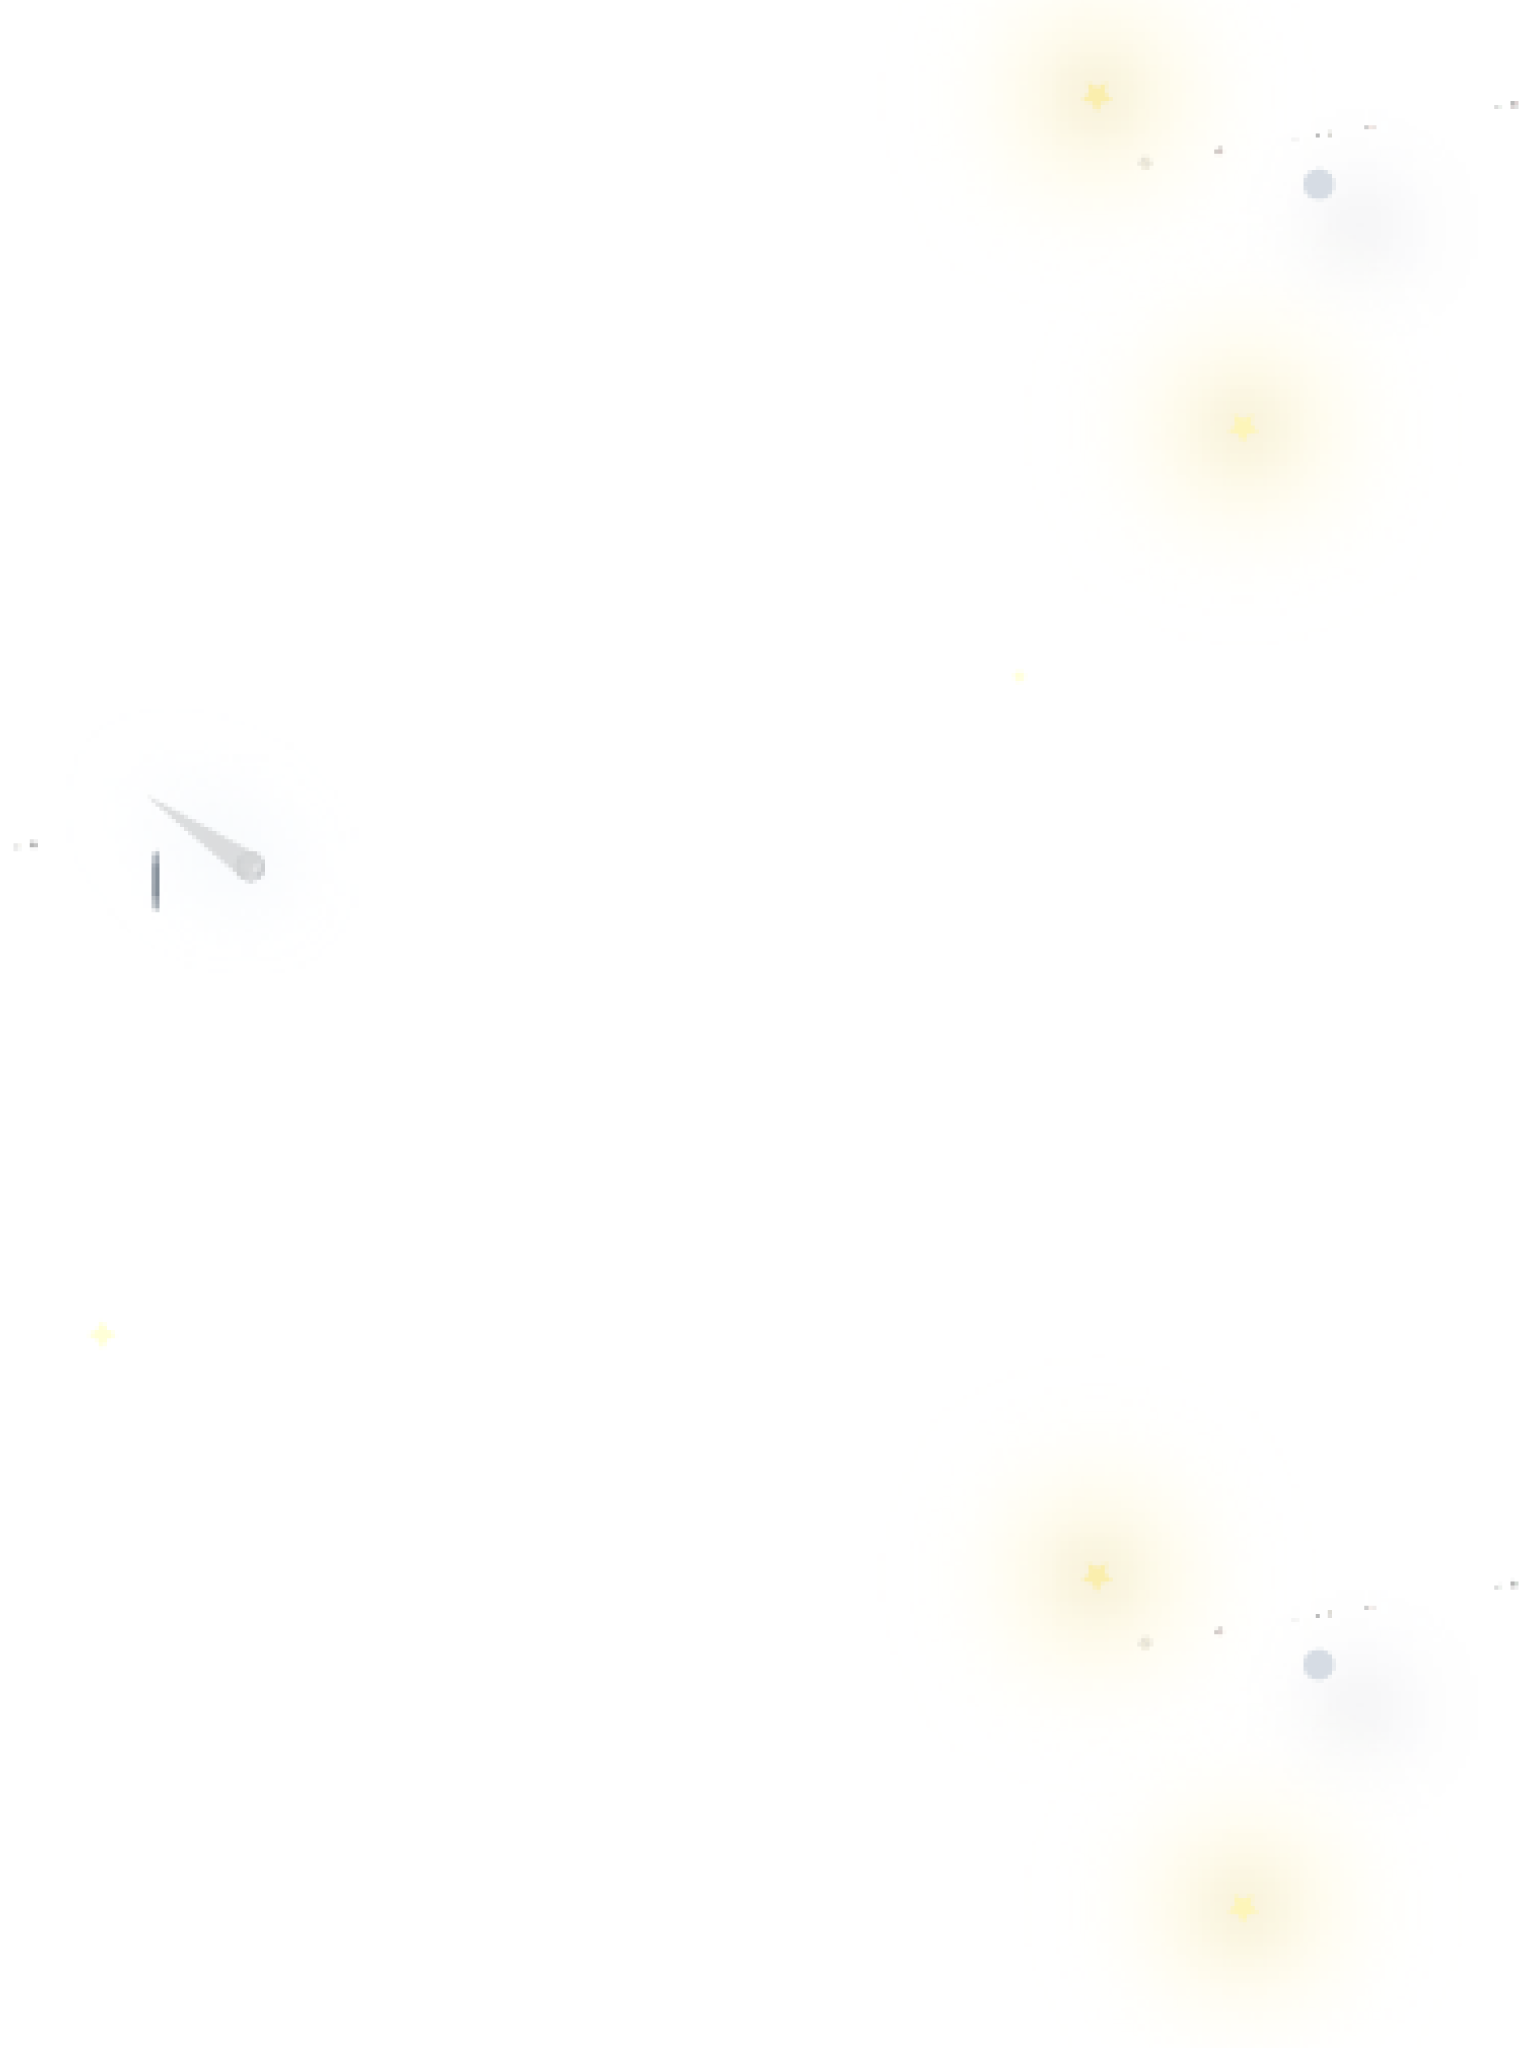
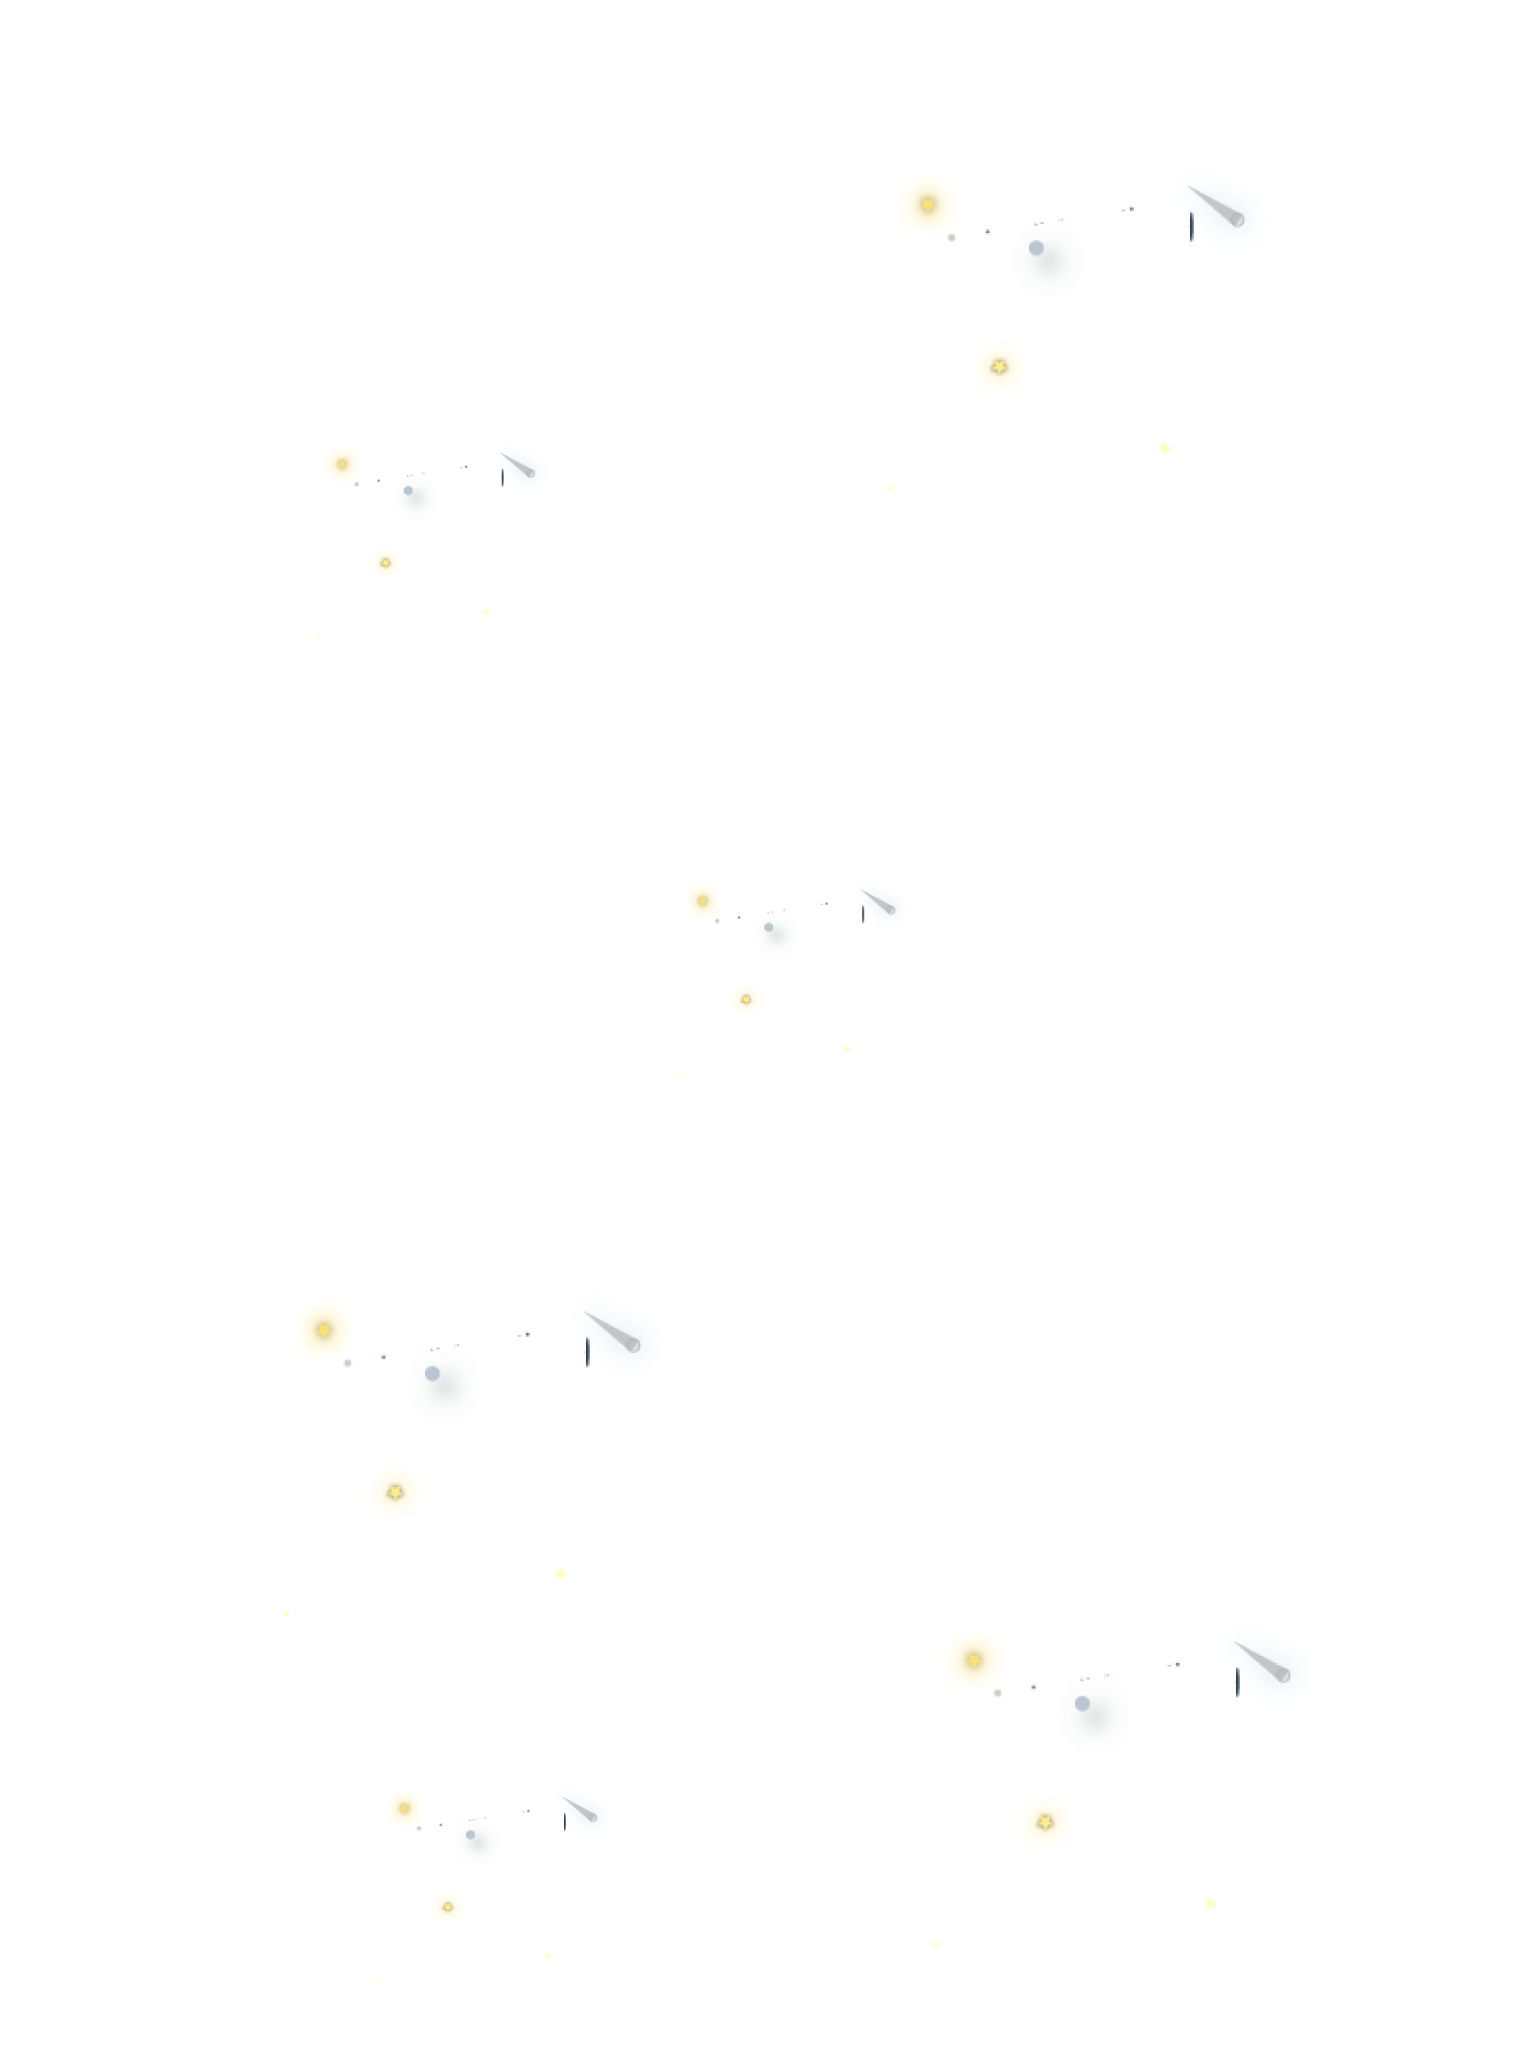
1. Improving delivery UI Animation

diff --git a/src/containers/miscellaneous/delivery/layout.ios.js b/src/containers/miscellaneous/delivery/layout.ios.js
@@ -1,8 +1,9 @@
 import React, { PropTypes, Component } from 'react';
-import { View , Text , StatusBar , StyleSheet , Dimensions , KeyboardAvoidingView } from 'react-native';
+import { Easing , Animated , View , Text , StatusBar , StyleSheet , Dimensions , KeyboardAvoidingView } from 'react-native';
 import { bindActionCreators } from 'redux';
 import { connect } from 'react-redux';
 import BackgroundImage from '../../../components/utilities/backgroundImage';
+import StarsImage from '../../../components/utilities/starsImage';
 import Telebot from '../../../components/telebuddies/telebot';
 import MessageBox from '../../../components/messageBox/container';
 import NavBar from '../../../components/navBar/container';
@@ -12,7 +13,7 @@ import { getUserInfo } from '../../auth/actions';
 import { getLogisticQuote , resetLogistic , confirmDelivery , confirmPlaySelect , showTracking } from '../actions';
 import QuoteSelect from './quote/listContainer';
 import Receipt from './receipt/layout';
-const { width } = Dimensions.get('window');
+const { width , height } = Dimensions.get('window');
 
 class Delivery extends Component {
 	constructor(props){
@@ -23,10 +24,18 @@ class Delivery extends Component {
 		// 3. quoteSelect
 		// 4. deliveryReceipt
 		this.state = { display : 'gamePlaySelect' };
+		this._position = new Animated.ValueXY({
+			x : 0, 
+			y : height*0.1
+		});
+		this._animation = new Animated.Value(0);
 	}
 	componentDidMount(){
 		const { getUserInfo } = this.props;
 		getUserInfo();
+		setTimeout(()=>{
+			this._slideUpAnimation();
+		},100);
 	}
 	shouldComponentUpdate(nextProps,nextState){
 		const { display , data } = this.state;
@@ -36,6 +45,32 @@ class Delivery extends Component {
 		// Clear Selected Play / Reset 
 		const { resetLogistic } = this.props;
 		resetLogistic();
+	}
+	_fadeAnimation(){
+		Animated.timing(this._animation, {
+			toValue: 1,
+			duration: 100,
+			easing : Easing.linear
+		}).start()
+	}
+	_slideUpAnimation(){
+		Animated.sequence([
+			Animated.spring(this._position, {
+				bounciness : 15 ,
+				toValue : { 
+					x : 0, 
+					y : -height*0.1
+				}
+			}),
+		]).start(()=>this._fadeAnimation());
+	}
+	_opacityAnimation(){
+		return {
+			opacity: this._animation.interpolate({
+				inputRange: [0, 1],
+				outputRange: [0, 1],
+			})
+		}
 	}
 	_renderContent(display){
 		const { navigator } = this.props;
@@ -218,6 +253,7 @@ class Delivery extends Component {
 			<View style={styles.container}>
 				<StatusBar hidden={true}/>
 				<BackgroundImage type={'random'}/>
+				<StarsImage/>
 				<NavBar 
 					back={true}
 					coins={true} 
@@ -227,25 +263,27 @@ class Delivery extends Component {
 					behavior="position" 
 					style={styles.keyboardView}
 				>
-					<MessageBox 
-						title={'delivery'}
-						type={'left'}
-						promptString={'deliveryPrompt'}
-						content={displayContent}
-						buttons={displayBtn}
-					/>
-					<Telebot 
-						style={styles.telebot}
-						status={'fly'} 
-						height={width*0.3} 
-						width={width*0.3}
-					/>
+					<Animated.View style={[this._opacityAnimation()]}>
+						<MessageBox 
+							title={'delivery'}
+							type={'left'}
+							promptString={'deliveryPrompt'}
+							content={displayContent}
+							buttons={displayBtn}
+						/>
+					</Animated.View>
+					<Animated.View style={[this._position.getLayout()]}>
+						<Telebot 
+							status={'fly'} 
+							height={width*0.3} 
+							width={width*0.3}
+						/>
+					</Animated.View>
 				</KeyboardAvoidingView>
 			</View>
 		)
 	}
 }
-
 
 const styles = StyleSheet.create({
 	container : {

diff --git a/src/containers/transaction/actions.js b/src/containers/transaction/actions.js
@@ -1,7 +1,7 @@
 import Request from '../../utils/fetch';
 import { getPaymentToken , createSales, getTransactions } from '../../common/api/request/transaction';
 import { userTransactions } from '../../common/api/request/user';
-import { getExchageRate } from '../../common/api/request/exchangeRate';
+import { getExchangeRate } from '../../common/api/request/exchangeRate';
 import { redeemReward } from '../../common/api/request/reward';
 import { loading , message } from '../utilities/actions';
 const BTClient = require('react-native-braintree-xplat');
@@ -134,45 +134,42 @@ export function payment(navigator){
 	}
 }
 
-export function exchangeRate(){
+export function exchangeRate(navigator){
 	return (dispatch,getState)=>{
 		const { userId , id } = getState()['auth']['token']['lbToken'];
 		const params = { token : id };
-		getExchageRate(params,Request)
+		loading('show',navigator);
+		getExchangeRate(params,Request)
 			.then((res,err)=>{
 				//console.warn(JSON.stringify(res));
 				//console.warn(JSON.stringify(err));
+				loading('hide',navigator);
 				return dispatch({ type : 'STORE_RATES' , value : res });	
 			})
 			.catch(function(err) {
+				loading('hide',navigator);
 				console.warn(err)
 			});
 	}
 }
 
-export function transactions(){
+export function transactions(navigator){
 	return (dispatch,getState)=>{
 		const { userId , id } = getState()['auth']['token']['lbToken'];
 		const params = {
 			token : id,
 			userId : userId
 		};
-		//getTransactions(params,Request)
-			//.then((res,err)=>{
-				////console.warn(JSON.stringify(res));
-				////console.warn(JSON.stringify(err));
-				//return dispatch({ type : 'STORE_TRANSACTIONS' , value : res });	
-			//})
-			//.catch(function(err) {
-				//console.warn(JSON.stringify(err));
-			//});
+		loading('show',navigator);
 		userTransactions(params,Request)
 			.then((res,err)=>{
 				//console.warn(JSON.stringify(res));
 				//console.warn(JSON.stringify(err));
+				loading('hide',navigator);
 				return dispatch({ type : 'STORE_TRANSACTIONS' , value : res });	
 			})
 			.catch(function(err) {
+				loading('hide',navigator);
 				console.warn(JSON.stringify(err));
 			});
 	}

diff --git a/src/components/utilities/starsImage.js b/src/components/utilities/starsImage.js
@@ -2,27 +2,28 @@ import React, { PropTypes, Component } from 'react';
 import { Easing , Animated , View , Image , StyleSheet , Dimensions } from 'react-native';
 import { bindActionCreators } from 'redux';
 import { connect } from 'react-redux';
-const startsImages = [
+const starsImages = [
+	require('../../../assets/background/stars1.png') , 
 	require('../../../assets/background/stars2.png') , 
+	require('../../../assets/background/stars3.png')
 ];
-const backgroundImg = require('../../../assets/background/background_img.png');
 
 class StarsImage extends Component {
 	constructor(props){
 		super(props);
-		this._animation = new Animated.Value(0);
+		this._animation = new Animated.Value(0.2);
 	}
 	componentDidMount(){
 		Animated.loop(
 			Animated.sequence([
 				Animated.timing(this._animation, {
 					toValue: 1,
-					duration: 5000,
+					duration: 2000,
 					easing : Easing.linear
 				}),
 				Animated.timing(this._animation, {
-					toValue: 0,
-					duration: 5000,
+					toValue: 0.2,
+					duration: 2000,
 					easing : Easing.linear
 				})
 			])
@@ -41,13 +42,11 @@ class StarsImage extends Component {
 	}
 	render() {
 		const { type } = this.props;
-		//const backgroundSetting = (type === 'auth') ? 
-			//require('../../../assets/background/background_auth.png') : 
-			//backgroundImages[Math.floor(Math.random() * (2 - 0 + 1)) + 0];
+		const starsSetting = starsImages[Math.floor(Math.random() * (2 - 0 + 1)) + 0];
 		return(
 			<View style={styles.container}>
 				<Animated.Image
-					source={startsImages[0]}
+					source={starsSetting}
 					style={[styles.image,this._opacityAnimation()]}
 					resizeMode={'cover'}
 				/>

diff --git a/src/components/utilities/backgroundImage.js b/src/components/utilities/backgroundImage.js
@@ -2,52 +2,23 @@ import React, { PropTypes, Component } from 'react';
 import { Easing , Animated , View , Image , StyleSheet , Dimensions } from 'react-native';
 import { bindActionCreators } from 'redux';
 import { connect } from 'react-redux';
-const startsImages = [
-	require('../../../assets/background/stars1.png') , 
-];
 const backgroundImg = require('../../../assets/background/background_img.png');
+const authBackgroundImg = require('../../../assets/background/background_auth.png');
 
 class BackgroundImage extends Component {
 	constructor(props){
 		super(props);
-		this._animation = new Animated.Value(0);
-	}
-	componentDidMount(){
-		Animated.loop(
-			Animated.sequence([
-				Animated.timing(this._animation, {
-					toValue: 1,
-					duration: 2000,
-					easing : Easing.linear
-				}),
-				Animated.timing(this._animation, {
-					toValue: 0,
-					duration: 2000,
-					easing : Easing.linear
-				})
-			])
-		).start();
 	}
 	shouldComponentUpdate(){
 		return false
 	}
-	_opacityAnimation(){
-		return {
-			opacity: this._animation.interpolate({
-				inputRange: [0, 1],
-				outputRange: [0, 1],
-			})
-		}
-	}
 	render() {
 		const { type } = this.props;
-		//const backgroundSetting = (type === 'auth') ? 
-			//require('../../../assets/background/background_auth.png') : 
-			//backgroundImages[Math.floor(Math.random() * (2 - 0 + 1)) + 0];
+		const backgroundSetting = (type === 'auth') ? authBackgroundImg : backgroundImg;
 		return(
 			<View style={styles.container}>
 				<Image
-					source={backgroundImg}
+					source={backgroundSetting}
 					style={[styles.image]}
 					resizeMode={'cover'}
 				/>

diff --git a/src/containers/transaction/topup/payment/layout.ios.js b/src/containers/transaction/topup/payment/layout.ios.js
@@ -20,7 +20,7 @@ class TopUp extends Component {
 			tabs : [
 				{ 
 					name : 'topUp' , 
-					content : <RateListContainer/> ,
+					content : <RateListContainer navigator={navigator}/> ,
 					buttons : [
 						{
 							text : 'confirmText',
@@ -41,7 +41,7 @@ class TopUp extends Component {
 				},
 				{ 
 					name : 'transactions',
-					content : <TransactionListContainer/>
+					content : <TransactionListContainer navigator={navigator}/>
 				}
 			]
 		}

diff --git a/src/containers/transaction/topup/payment/listContainer.js b/src/containers/transaction/topup/payment/listContainer.js
@@ -15,8 +15,11 @@ class RateListContainer extends Component{
 	}
 	componentDidMount(){
 		// Fetch Remote Backend API to Get List of Exchage Rate
-		const { exchangeRate } = this.props;
-		exchangeRate();
+		const { exchangeRate , navigator } = this.props;
+		exchangeRate(navigator);
+	}
+	shouldComponentUpdate(nextProps){
+		return nextProps.rates.length > 0;
 	}
 	_renderLoading(){
 		return (

diff --git a/src/containers/transaction/topup/record/listContainer.js b/src/containers/transaction/topup/record/listContainer.js
@@ -15,8 +15,8 @@ class TransactionListContainer extends Component{
 	}
 	componentDidMount(){
 		// Fetch Remote Backend API to Get List of Transactions
-		const { transactions } = this.props;
-		transactions();
+		const { transactions , navigator } = this.props;
+		transactions(navigator);
 	}
 	shouldComponentUpdate(nextProps){
 		const { transactionsData } = this.props;

diff --git a/src/common/api/request/exchangeRate.js b/src/common/api/request/exchangeRate.js
@@ -1,7 +1,7 @@
 import  { api } from '../url';
 
 // Get Exchange Rate
-export function getExchageRate(params,request){
+export function getExchangeRate(params,request){
 	const { token } = params;
 	return new Promise((resolve,reject)=>{
 		request(api.exchangeRates.root+'?filter[where][status]=true&access_token='+token,'GET')

diff --git a/src/containers/transaction/topup/payment/itemContainer.js b/src/containers/transaction/topup/payment/itemContainer.js
@@ -10,6 +10,10 @@ const coinsImg = {
 const width = Dimensions.get('window').width;
 
 class RateItem extends Component {
+	shouldComponentUpdate(nextProps){
+		const { rate } = this.props;
+		return JSON.stringify(rate) !== JSON.stringify(nextProps.rate);
+	}
 	render(){
 		const { 
 			coins , 
